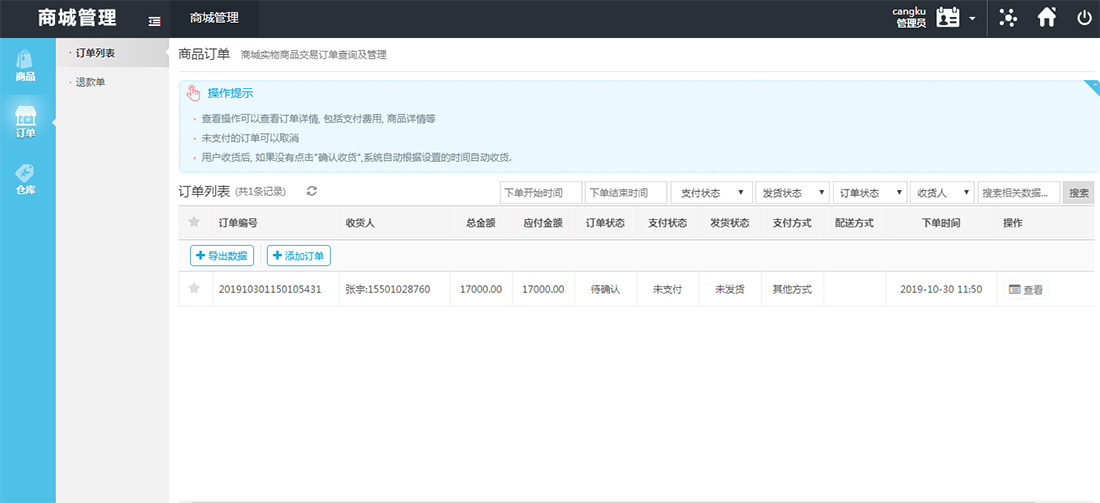
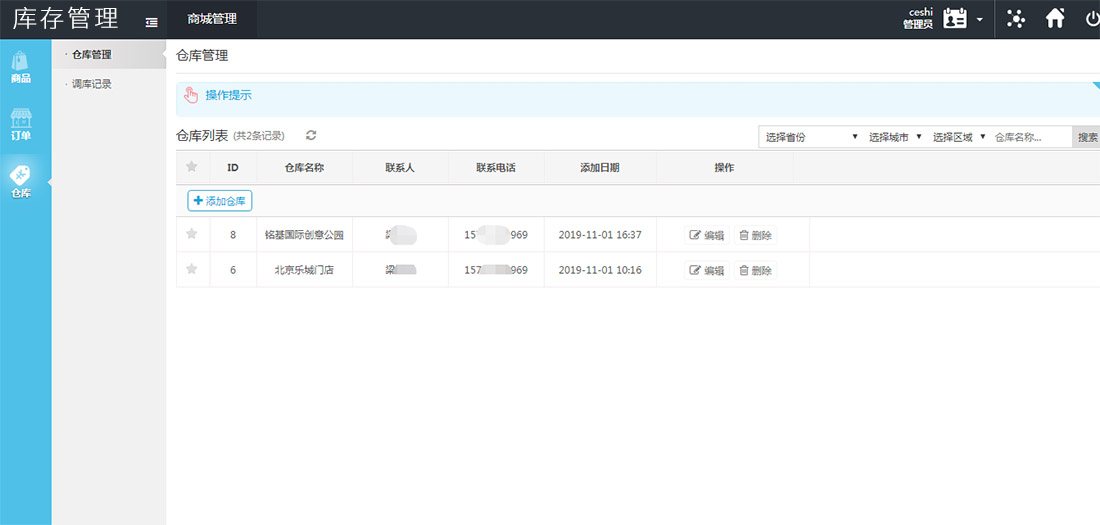
case

diff --git a/m/cases/caseshow_shop_005.html b/m/cases/caseshow_shop_005.html
@@ -141,12 +141,25 @@
 	</div>
 	<div class="casecontainer">
 		<div class="caseshow">
-            <div class="title">库存管理系统</div>
+            <div class="title">商品销售与库存管理</div>
+
             <div class="content">
                 <div class="marginTop30">
                     <span class=""> <img src="../../cases/images/074.jpg" alt=""> </span>
+                </div>
+                <div class="marginTop30">
                     <span class=""> <img src="../../cases/images/075.jpg" alt=""> </span>
                 </div>
+                <div class="marginTop30">
+                    <span class=""> <img src="../../cases/images/076.jpg" alt=""> </span>
+                </div>
+                <div class="marginTop30">
+                    <span class=""> <img src="../../cases/images/077.jpg" alt=""> </span>
+                </div>
+                <div class="marginTop30">
+                    <span class=""> <img src="../../cases/images/078.jpg" alt=""> </span>
+                </div>
+
             </div>
 			<div class="con_bot">本信息来源于：
 				<a href="http://www.staraise.com.cn">星擎科技</a>

diff --git a/cases/caseshow_shop_005.html b/cases/caseshow_shop_005.html
@@ -103,13 +103,22 @@
 	</div>
 	<div class="casecontainer">
 		<div class="caseshow">
-			<div class="title">库存管理系统</div>
+			<div class="title">商品销售与库存管理</div>
 			<div class="content">
                 <div class="marginTop30">
                     <span class=""> <img src="./images/074.jpg" alt=""> </span>
                 </div>
                 <div class="marginTop30">
                     <span class=""> <img src="./images/075.jpg" alt=""> </span>
+                </div>
+                <div class="marginTop30">
+                    <span class=""> <img src="./images/076.jpg" alt=""> </span>
+                </div>
+                <div class="marginTop30">
+                    <span class=""> <img src="./images/077.jpg" alt=""> </span>
+                </div>
+                <div class="marginTop30">
+                    <span class=""> <img src="./images/078.jpg" alt=""> </span>
                 </div>
 
 			</div>

diff --git a/caselist_shop.html b/caselist_shop.html
@@ -133,7 +133,7 @@
                     <li>
                         <a href="cases/caseshow_shop_005.html">
                             <div class="img"><img src="./src/img/case/dianshang-5.jpg" alt=""></div>
-                            <div class="title">库存管理系统</>
+                            <div class="title">商品销售与库存管理</>
                         </a>
                     </li>
 				</ul>

diff --git a/m/case_shop.html b/m/case_shop.html
@@ -145,7 +145,7 @@
                 <li>
                     <a href="cases/caseshow_shop_005.html">
                         <div class="img"><img src="../src/img/case/dianshang-5.jpg" alt=""></div>
-                        <div class="title">库存管理系统</div>
+                        <div class="title">商品销售与库存管理</div>
                     </a>
                 </li>
 				</ul>
